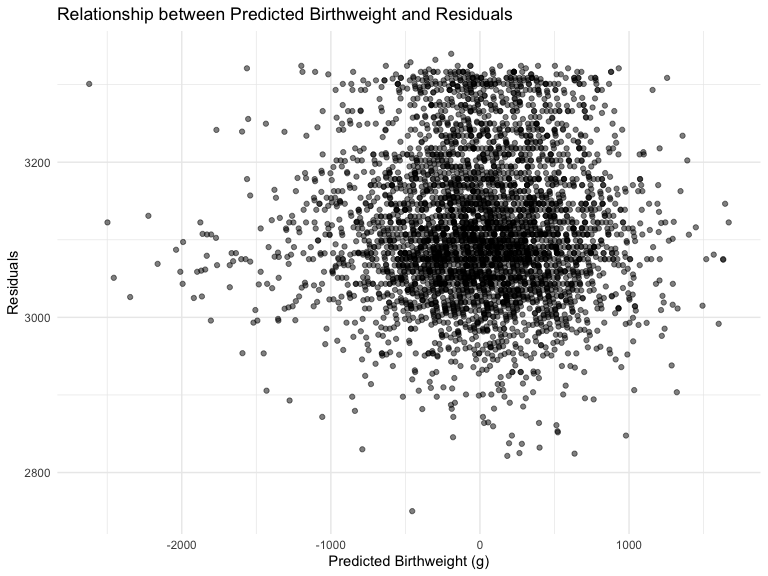
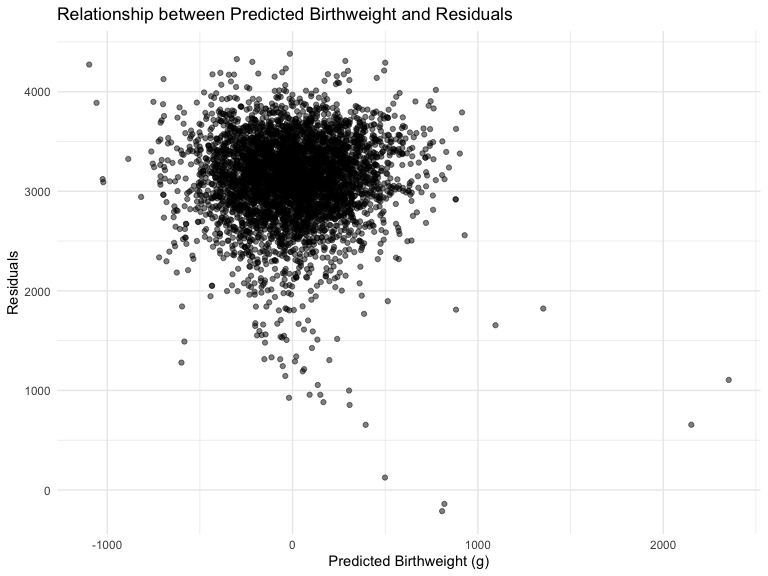
final commit

diff --git a/p8105_hw6_sg3891.md b/p8105_hw6_sg3891.md
@@ -87,6 +87,8 @@ birthweight = birthweight %>%
      )
 ```
 
+#### My Model (Model 1)
+
 Model 1: I will build my model using backwards selection, and validating
 the predictors we are including using the current literature and my
 hypotheses. For the backwards selection, we will start with a fully
@@ -135,20 +137,12 @@ literature shows that smoking during pregnancy can cause a lot of
 malformations in children and can affect birthweight as well, so it
 makes sense to include number of cigarettes smoked as a predictor.
 
-Plot of model residuals against fitted values
+Therefore, the predictors in my model (model 1) are sex of the baby,
+head circumference, baby length, delivery weight, family income,
+gestational age, mother’s height, mother’s race, parity, pre-pregnancy
+weight, and number of cigarettes smoked.
 
-``` r
-model1 = lm(bwt ~ menarche + fincome + smoken, data = birthweight)
-
-model1 %>% broom::tidy() %>% knitr::kable(digits = 3)
-```
-
-| term        | estimate | std.error | statistic | p.value |
-|:------------|---------:|----------:|----------:|--------:|
-| (Intercept) | 3096.503 |    66.600 |    46.494 |   0.000 |
-| menarche    |   -7.769 |     5.178 |    -1.500 |   0.134 |
-| fincome     |    3.181 |     0.295 |    10.768 |   0.000 |
-| smoken      |   -6.073 |     1.036 |    -5.862 |   0.000 |
+#### Plot of model residuals against fitted values
 
 ``` r
 add_residuals(birthweight, model1) %>% add_predictions(model1) %>% 
@@ -159,6 +153,10 @@ add_residuals(birthweight, model1) %>% add_predictions(model1) %>%
 ```
 
 ![](p8105_hw6_sg3891_files/figure-gfm/resid_plot-1.png)<!-- -->
+
+Looking at the comparison between predicted birthweight and the
+residuals, we can see that there are some clear outliers, but the
+majority of data has similar residual spread.
 
 #### Additional Models and Cross Validation
 
@@ -253,6 +251,8 @@ number of cigarettes smoked.
 
 ## Question 2
 
+#### Load Weather Data
+
 First, we will download the 2017 Central Park weather data
 
 ``` r
@@ -309,9 +309,9 @@ boot_straps_r_weather %>%
 ```
 
 ![](p8105_hw6_sg3891_files/figure-gfm/rsquared-1.png)<!-- --> We can see
-that the distribution of the R-squared data is relatively normally
-distributed. The 95% CI for the r-squared values is (0.894, 0.927), as
-seen in the table above.
+that the distribution of the *r̂*<sup>2</sup> data is relatively normally
+distributed, and is centered around 0.915. The 95% CI for the
+*r̂*<sup>2</sup> values is (0.894, 0.927), as seen in the table above.
 
 #### Log(B0\*B1)
 
@@ -357,6 +357,8 @@ boot_straps_log_weather %>%
 
 ![](p8105_hw6_sg3891_files/figure-gfm/logb0b1-1.png)<!-- -->
 
-We can see that the distribution of the log(B0\*B1) data is relatively
-normally distributed. The 95% CI for the r-squared values is (1.966,
-2.058), as seen in the table above.
+We can see that the distribution of the
+log (*β̂*<sub>0</sub> \* *β̂*<sub>1</sub>) data is relatively normally
+distributed, and is centered around 2.02 The 95% CI for the
+log (*β̂*<sub>0</sub> \* *β̂*<sub>1</sub>) values is (1.966, 2.058), as
+seen in the table above.
